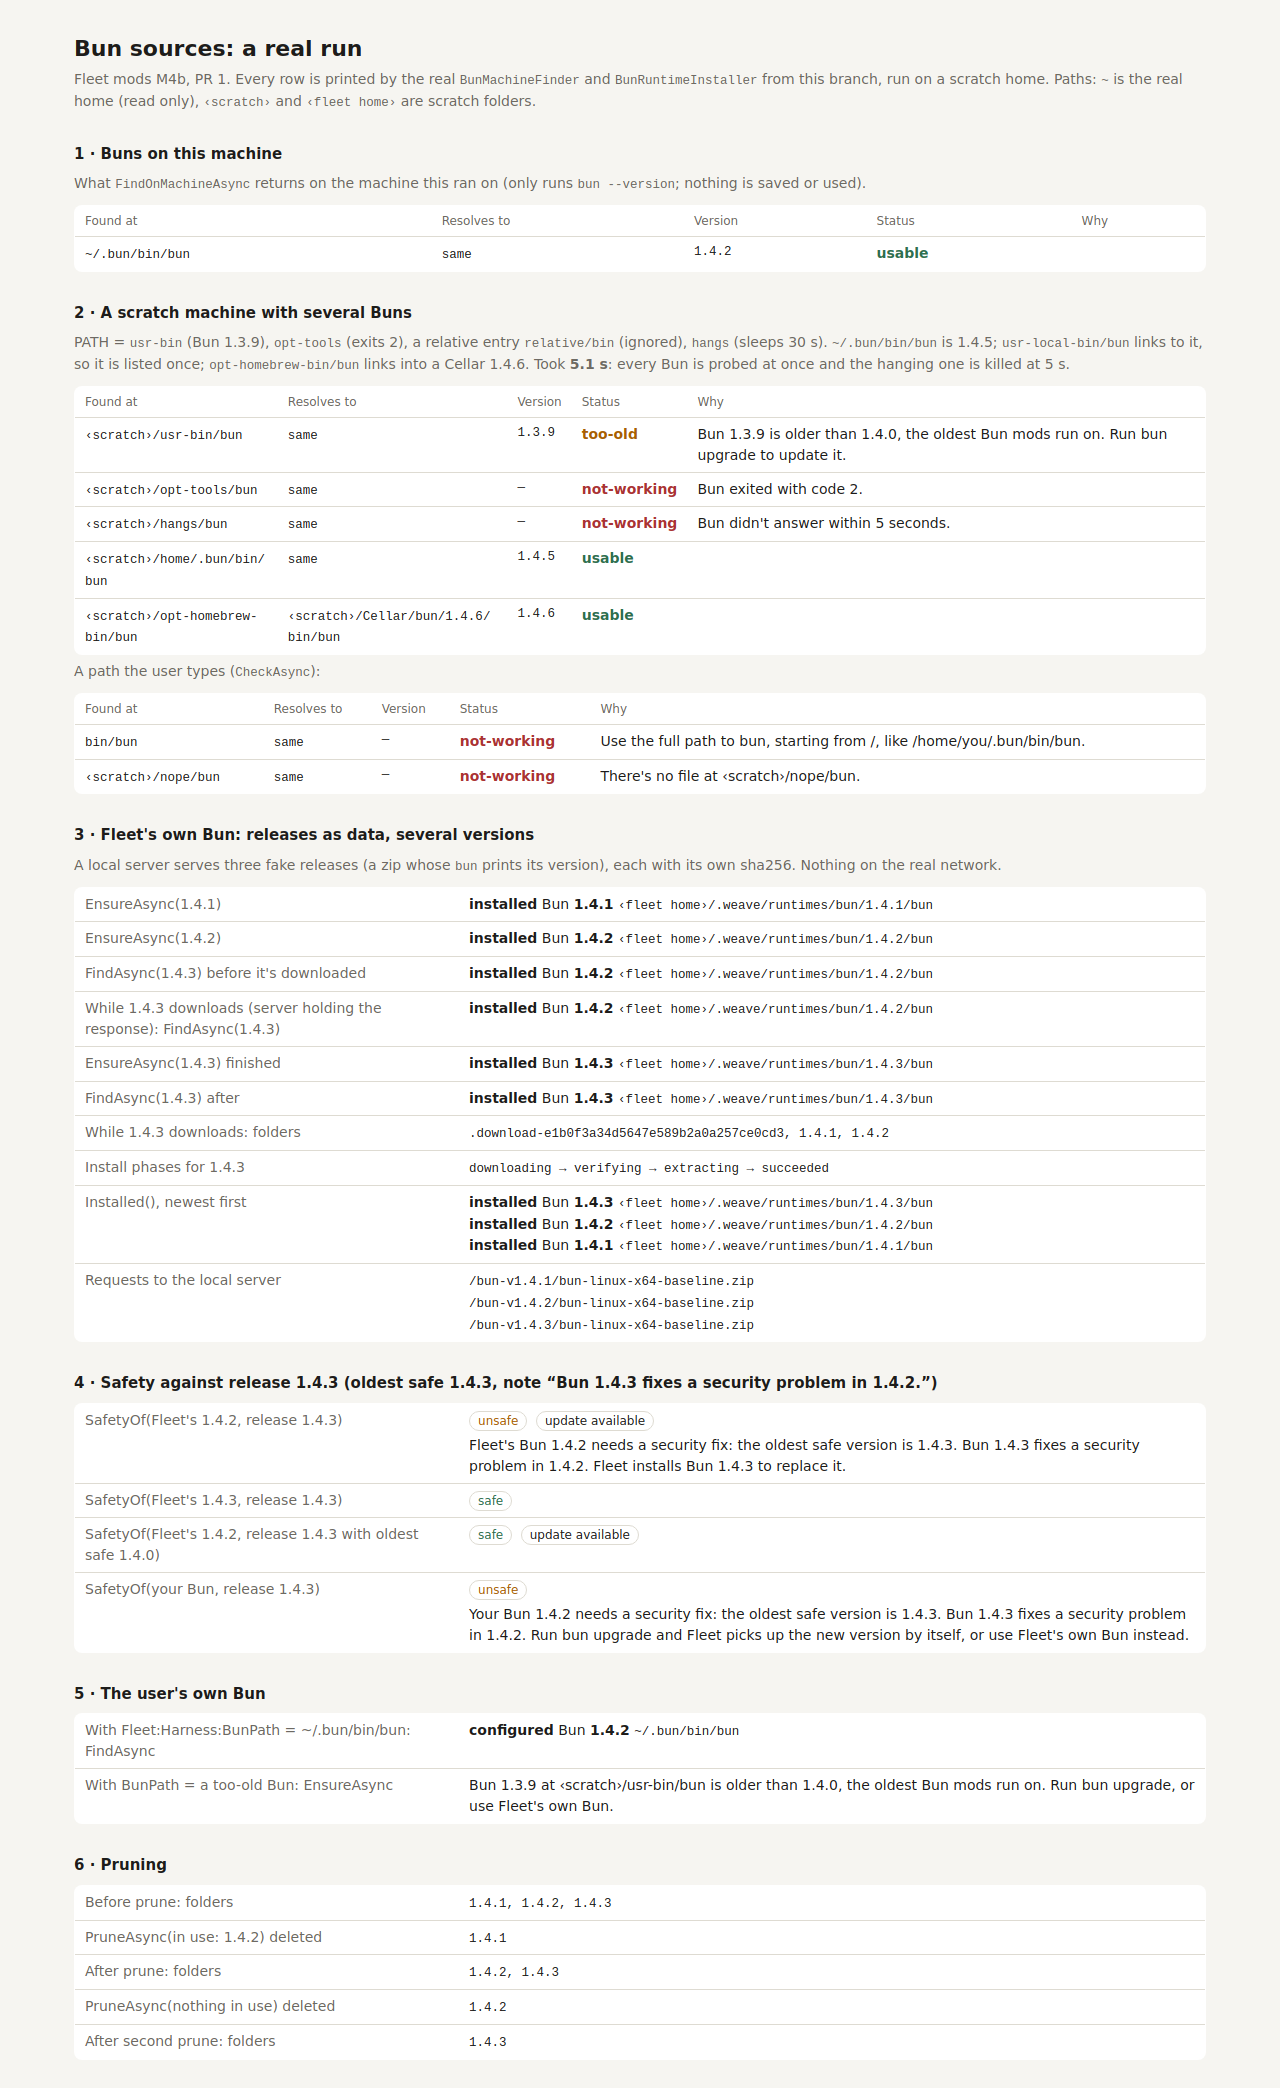
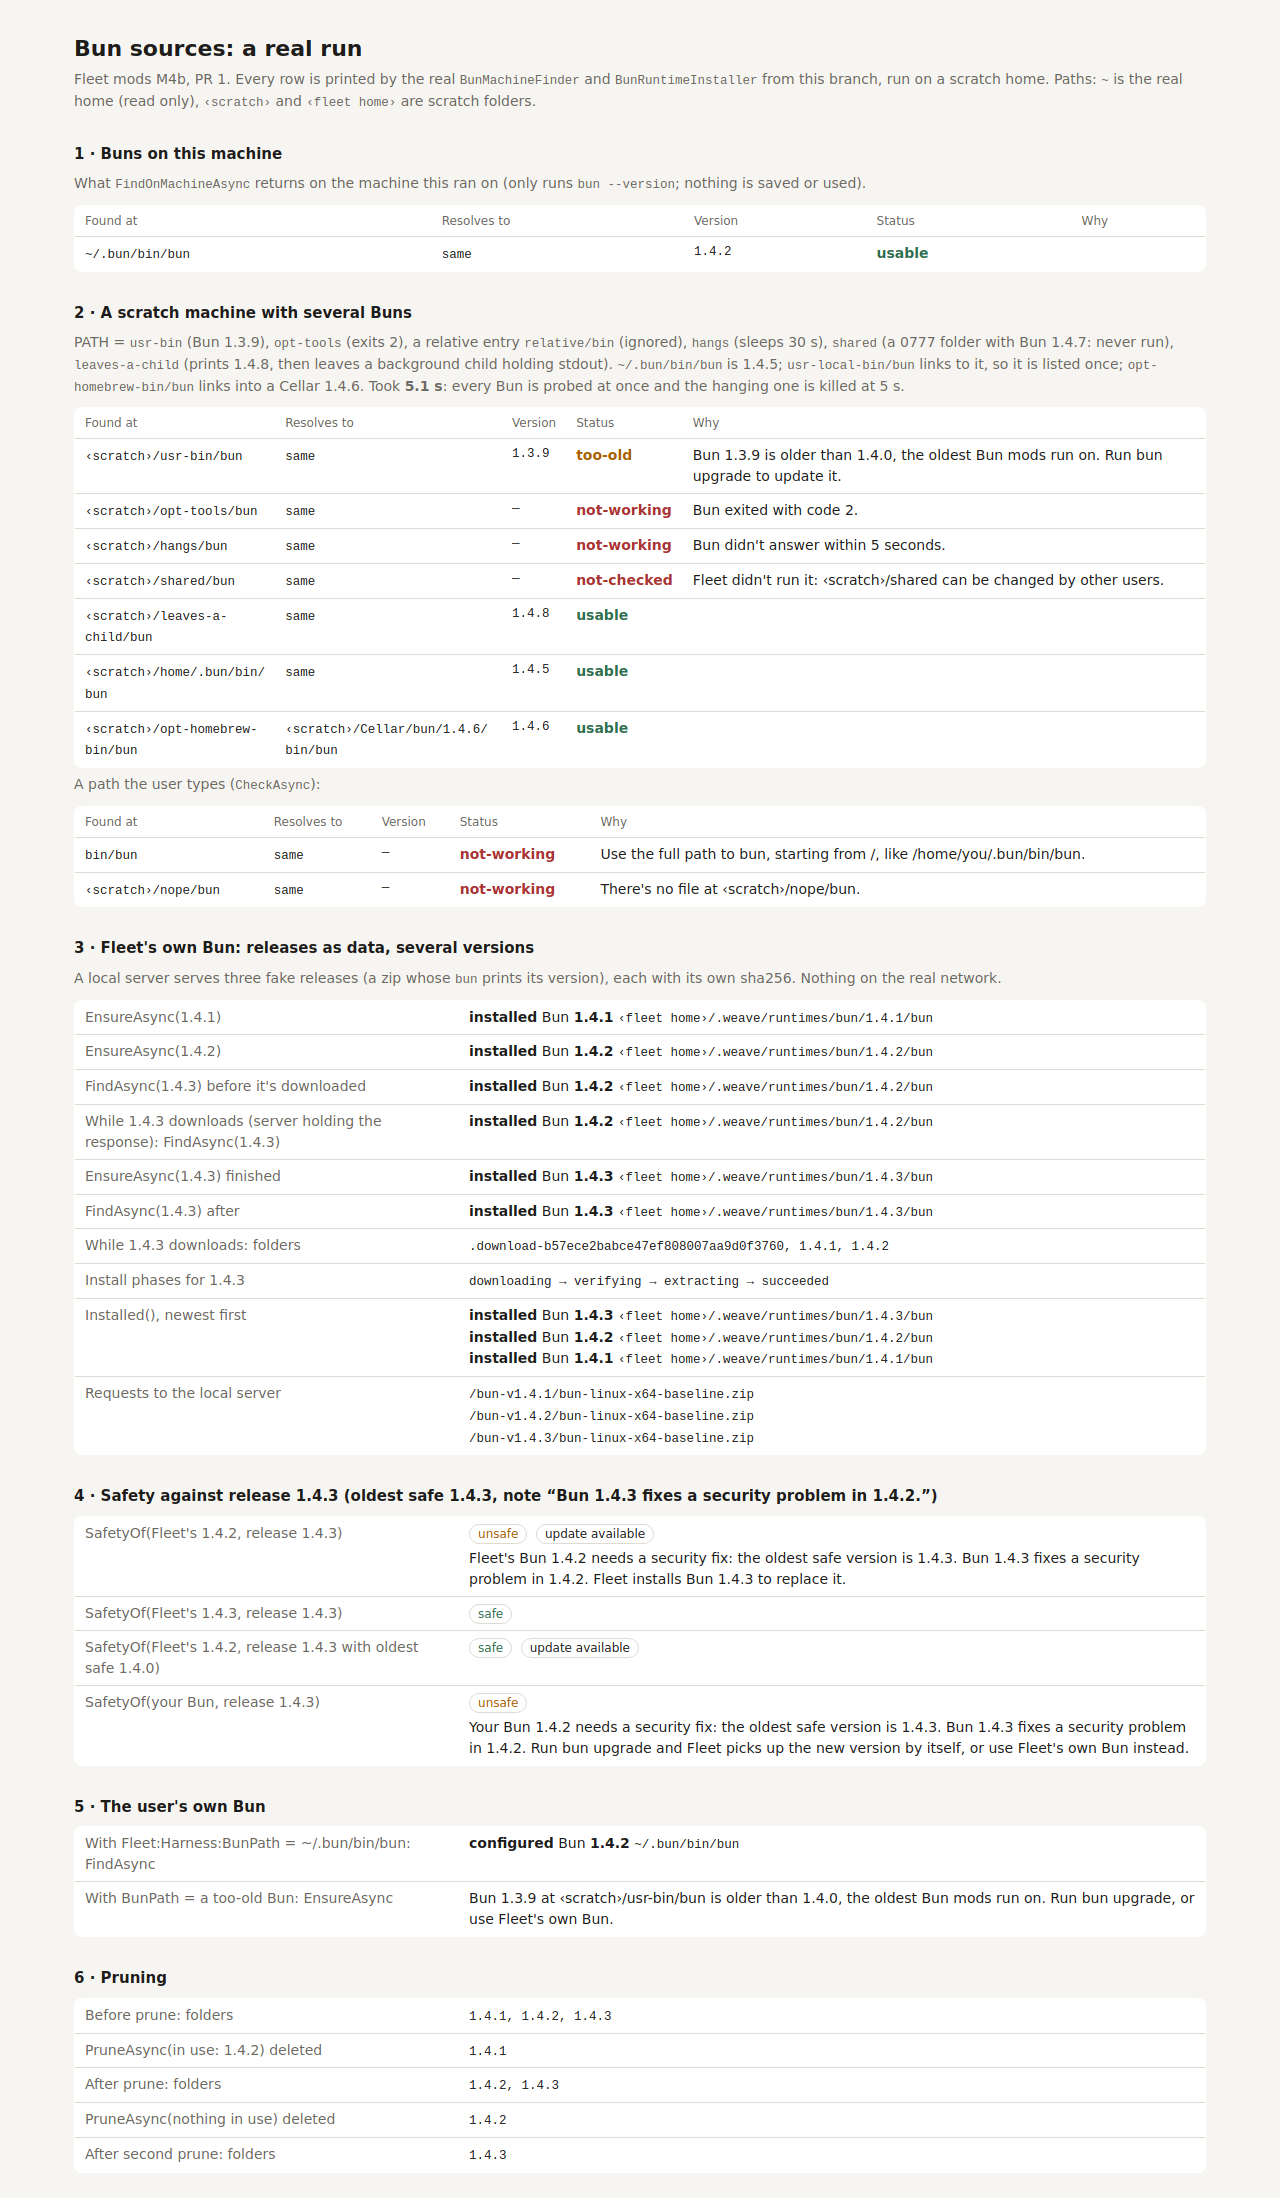
docs(mockups): evidence after review 1: a Bun others can change isn't run, a background child doesn't hide the version

diff --git a/mockups/mods-bun-sources/bun-sources-run.html b/mockups/mods-bun-sources/bun-sources-run.html
@@ -8,20 +8,22 @@ main{max-width:1180px;margin:0 auto;padding:32px 24px 48px}h1{font-size:22px;mar
 .sub{color:var(--mut);margin:0 0 10px}code,.num{font-family:ui-monospace,SFMono-Regular,Menlo,monospace;font-size:12.5px;overflow-wrap:anywhere}
 table{width:100%;border-collapse:collapse;background:var(--card);border:1px solid var(--line);border-radius:8px;overflow:hidden;margin-bottom:6px}
 th{text-align:left;font-size:12px;color:var(--mut);font-weight:500;padding:6px 10px}td{padding:6px 10px;border-top:1px solid var(--line);vertical-align:top}
-td.k{width:34%;color:var(--mut)}.st{font-weight:600;white-space:nowrap}tr.usable .st{color:var(--acc)}tr.too-old .st{color:var(--warn)}tr.not-working .st{color:var(--fail)}
+td.k{width:34%;color:var(--mut)}.st{font-weight:600;white-space:nowrap}tr.usable .st{color:var(--acc)}tr.too-old .st{color:var(--warn)}tr.not-working .st{color:var(--fail)}tr.not-checked .st{color:var(--fail)}
 .pill{display:inline-block;font-size:12px;border:1px solid var(--line);border-radius:999px;padding:0 8px;margin-right:4px}.pill.ok{color:var(--acc)}.pill.warn{color:var(--warn)}
 .msg{margin-top:4px}.mut{color:var(--mut)}
 </style><main><h1>Bun sources: a real run</h1>
 <p class=sub>Fleet mods M4b, PR 1. Every row is printed by the real <code>BunMachineFinder</code> and <code>BunRuntimeInstaller</code> from this branch, run on a scratch home. Paths: <code>~</code> is the real home (read only), <code>‹scratch›</code> and <code>‹fleet home›</code> are scratch folders.</p>
 <h2>1 · Buns on this machine</h2><p class=sub>What <code>FindOnMachineAsync</code> returns on the machine this ran on (only runs <code>bun --version</code>; nothing is saved or used).</p><table><tr><th>Found at</th><th>Resolves to</th><th>Version</th><th>Status</th><th>Why</th></tr>
 <tr class='usable'><td><code>~/.bun/bin/bun</code></td><td><code>same</code></td><td class=num>1.4.2</td><td class=st>usable</td><td></td></tr>
-</table><h2>2 · A scratch machine with several Buns</h2><p class=sub>PATH = <code>usr-bin</code> (Bun 1.3.9), <code>opt-tools</code> (exits 2), a relative entry <code>relative/bin</code> (ignored), <code>hangs</code> (sleeps 30 s). <code>~/.bun/bin/bun</code> is 1.4.5; <code>usr-local-bin/bun</code> links to it, so it is listed once; <code>opt-homebrew-bin/bun</code> links into a Cellar 1.4.6. Took <b>5.1 s</b>: every Bun is probed at once and the hanging one is killed at 5 s.</p><table><tr><th>Found at</th><th>Resolves to</th><th>Version</th><th>Status</th><th>Why</th></tr>
+</table><h2>2 · A scratch machine with several Buns</h2><p class=sub>PATH = <code>usr-bin</code> (Bun 1.3.9), <code>opt-tools</code> (exits 2), a relative entry <code>relative/bin</code> (ignored), <code>hangs</code> (sleeps 30 s), <code>shared</code> (a 0777 folder with Bun 1.4.7: never run), <code>leaves-a-child</code> (prints 1.4.8, then leaves a background child holding stdout). <code>~/.bun/bin/bun</code> is 1.4.5; <code>usr-local-bin/bun</code> links to it, so it is listed once; <code>opt-homebrew-bin/bun</code> links into a Cellar 1.4.6. Took <b>5.1 s</b>: every Bun is probed at once and the hanging one is killed at 5 s.</p><table><tr><th>Found at</th><th>Resolves to</th><th>Version</th><th>Status</th><th>Why</th></tr>
 <tr class='too-old'><td><code>‹scratch›/usr-bin/bun</code></td><td><code>same</code></td><td class=num>1.3.9</td><td class=st>too-old</td><td>Bun 1.3.9 is older than 1.4.0, the oldest Bun mods run on. Run bun upgrade to update it.</td></tr>
 <tr class='not-working'><td><code>‹scratch›/opt-tools/bun</code></td><td><code>same</code></td><td class=num>—</td><td class=st>not-working</td><td>Bun exited with code 2.</td></tr>
 <tr class='not-working'><td><code>‹scratch›/hangs/bun</code></td><td><code>same</code></td><td class=num>—</td><td class=st>not-working</td><td>Bun didn&#x27;t answer within 5 seconds.</td></tr>
+<tr class='not-checked'><td><code>‹scratch›/shared/bun</code></td><td><code>same</code></td><td class=num>—</td><td class=st>not-checked</td><td>Fleet didn&#x27;t run it: ‹scratch›/shared can be changed by other users.</td></tr>
+<tr class='usable'><td><code>‹scratch›/leaves-a-child/bun</code></td><td><code>same</code></td><td class=num>1.4.8</td><td class=st>usable</td><td></td></tr>
 <tr class='usable'><td><code>‹scratch›/home/.bun/bin/bun</code></td><td><code>same</code></td><td class=num>1.4.5</td><td class=st>usable</td><td></td></tr>
 <tr class='usable'><td><code>‹scratch›/opt-homebrew-bin/bun</code></td><td><code>‹scratch›/Cellar/bun/1.4.6/bin/bun</code></td><td class=num>1.4.6</td><td class=st>usable</td><td></td></tr>
 </table><p class=sub>A path the user types (<code>CheckAsync</code>):</p><table><tr><th>Found at</th><th>Resolves to</th><th>Version</th><th>Status</th><th>Why</th></tr>
 <tr class='not-working'><td><code>bin/bun</code></td><td><code>same</code></td><td class=num>—</td><td class=st>not-working</td><td>Use the full path to bun, starting from /, like /home/you/.bun/bin/bun.</td></tr>
 <tr class='not-working'><td><code>‹scratch›/nope/bun</code></td><td><code>same</code></td><td class=num>—</td><td class=st>not-working</td><td>There&#x27;s no file at ‹scratch›/nope/bun.</td></tr>
-</table><h2>3 · Fleet's own Bun: releases as data, several versions</h2><p class=sub>A local server serves three fake releases (a zip whose <code>bun</code> prints its version), each with its own sha256. Nothing on the real network.</p><table><tr><td class=k>EnsureAsync(1.4.1)</td><td><b>installed</b> Bun <b>1.4.1</b> <code>‹fleet home›/.weave/runtimes/bun/1.4.1/bun</code></td></tr><tr><td class=k>EnsureAsync(1.4.2)</td><td><b>installed</b> Bun <b>1.4.2</b> <code>‹fleet home›/.weave/runtimes/bun/1.4.2/bun</code></td></tr><tr><td class=k>FindAsync(1.4.3) before it&#x27;s downloaded</td><td><b>installed</b> Bun <b>1.4.2</b> <code>‹fleet home›/.weave/runtimes/bun/1.4.2/bun</code></td></tr><tr><td class=k>While 1.4.3 downloads (server holding the response): FindAsync(1.4.3)</td><td><b>installed</b> Bun <b>1.4.2</b> <code>‹fleet home›/.weave/runtimes/bun/1.4.2/bun</code></td></tr><tr><td class=k>EnsureAsync(1.4.3) finished</td><td><b>installed</b> Bun <b>1.4.3</b> <code>‹fleet home›/.weave/runtimes/bun/1.4.3/bun</code></td></tr><tr><td class=k>FindAsync(1.4.3) after</td><td><b>installed</b> Bun <b>1.4.3</b> <code>‹fleet home›/.weave/runtimes/bun/1.4.3/bun</code></td></tr><tr><td class=k>While 1.4.3 downloads: folders</td><td><code>.download-e1b0f3a34d5647e589b2a0a257ce0cd3, 1.4.1, 1.4.2</code></td></tr><tr><td class=k>Install phases for 1.4.3</td><td><code>downloading → verifying → extracting → succeeded</code></td></tr><tr><td class=k>Installed(), newest first</td><td><b>installed</b> Bun <b>1.4.3</b> <code>‹fleet home›/.weave/runtimes/bun/1.4.3/bun</code><br><b>installed</b> Bun <b>1.4.2</b> <code>‹fleet home›/.weave/runtimes/bun/1.4.2/bun</code><br><b>installed</b> Bun <b>1.4.1</b> <code>‹fleet home›/.weave/runtimes/bun/1.4.1/bun</code></td></tr><tr><td class=k>Requests to the local server</td><td><code>/bun-v1.4.1/bun-linux-x64-baseline.zip<br>/bun-v1.4.2/bun-linux-x64-baseline.zip<br>/bun-v1.4.3/bun-linux-x64-baseline.zip</code></td></tr></table><h2>4 · Safety against release 1.4.3 (oldest safe 1.4.3, note “Bun 1.4.3 fixes a security problem in 1.4.2.”)</h2><table><tr><td class=k>SafetyOf(Fleet&#x27;s 1.4.2, release 1.4.3)</td><td><span class='pill warn'>unsafe</span> <span class=pill>update available</span><div class=msg>Fleet&#x27;s Bun 1.4.2 needs a security fix: the oldest safe version is 1.4.3. Bun 1.4.3 fixes a security problem in 1.4.2. Fleet installs Bun 1.4.3 to replace it.</div></td></tr><tr><td class=k>SafetyOf(Fleet&#x27;s 1.4.3, release 1.4.3)</td><td><span class='pill ok'>safe</span></td></tr><tr><td class=k>SafetyOf(Fleet&#x27;s 1.4.2, release 1.4.3 with oldest safe 1.4.0)</td><td><span class='pill ok'>safe</span> <span class=pill>update available</span></td></tr><tr><td class=k>SafetyOf(your Bun, release 1.4.3)</td><td><span class='pill warn'>unsafe</span><div class=msg>Your Bun 1.4.2 needs a security fix: the oldest safe version is 1.4.3. Bun 1.4.3 fixes a security problem in 1.4.2. Run bun upgrade and Fleet picks up the new version by itself, or use Fleet&#x27;s own Bun instead.</div></td></tr></table><h2>5 · The user's own Bun</h2><table><tr><td class=k>With Fleet:Harness:BunPath = ~/.bun/bin/bun: FindAsync</td><td><b>configured</b> Bun <b>1.4.2</b> <code>~/.bun/bin/bun</code></td></tr><tr><td class=k>With BunPath = a too-old Bun: EnsureAsync</td><td class=msg>Bun 1.3.9 at ‹scratch›/usr-bin/bun is older than 1.4.0, the oldest Bun mods run on. Run bun upgrade, or use Fleet&#x27;s own Bun.</td></tr></table><h2>6 · Pruning</h2><table><tr><td class=k>Before prune: folders</td><td><code>1.4.1, 1.4.2, 1.4.3</code></td></tr><tr><td class=k>PruneAsync(in use: 1.4.2) deleted</td><td><code>1.4.1</code></td></tr><tr><td class=k>After prune: folders</td><td><code>1.4.2, 1.4.3</code></td></tr><tr><td class=k>PruneAsync(nothing in use) deleted</td><td><code>1.4.2</code></td></tr><tr><td class=k>After second prune: folders</td><td><code>1.4.3</code></td></tr></table></main></html>
+</table><h2>3 · Fleet's own Bun: releases as data, several versions</h2><p class=sub>A local server serves three fake releases (a zip whose <code>bun</code> prints its version), each with its own sha256. Nothing on the real network.</p><table><tr><td class=k>EnsureAsync(1.4.1)</td><td><b>installed</b> Bun <b>1.4.1</b> <code>‹fleet home›/.weave/runtimes/bun/1.4.1/bun</code></td></tr><tr><td class=k>EnsureAsync(1.4.2)</td><td><b>installed</b> Bun <b>1.4.2</b> <code>‹fleet home›/.weave/runtimes/bun/1.4.2/bun</code></td></tr><tr><td class=k>FindAsync(1.4.3) before it&#x27;s downloaded</td><td><b>installed</b> Bun <b>1.4.2</b> <code>‹fleet home›/.weave/runtimes/bun/1.4.2/bun</code></td></tr><tr><td class=k>While 1.4.3 downloads (server holding the response): FindAsync(1.4.3)</td><td><b>installed</b> Bun <b>1.4.2</b> <code>‹fleet home›/.weave/runtimes/bun/1.4.2/bun</code></td></tr><tr><td class=k>EnsureAsync(1.4.3) finished</td><td><b>installed</b> Bun <b>1.4.3</b> <code>‹fleet home›/.weave/runtimes/bun/1.4.3/bun</code></td></tr><tr><td class=k>FindAsync(1.4.3) after</td><td><b>installed</b> Bun <b>1.4.3</b> <code>‹fleet home›/.weave/runtimes/bun/1.4.3/bun</code></td></tr><tr><td class=k>While 1.4.3 downloads: folders</td><td><code>.download-b57ece2babce47ef808007aa9d0f3760, 1.4.1, 1.4.2</code></td></tr><tr><td class=k>Install phases for 1.4.3</td><td><code>downloading → verifying → extracting → succeeded</code></td></tr><tr><td class=k>Installed(), newest first</td><td><b>installed</b> Bun <b>1.4.3</b> <code>‹fleet home›/.weave/runtimes/bun/1.4.3/bun</code><br><b>installed</b> Bun <b>1.4.2</b> <code>‹fleet home›/.weave/runtimes/bun/1.4.2/bun</code><br><b>installed</b> Bun <b>1.4.1</b> <code>‹fleet home›/.weave/runtimes/bun/1.4.1/bun</code></td></tr><tr><td class=k>Requests to the local server</td><td><code>/bun-v1.4.1/bun-linux-x64-baseline.zip<br>/bun-v1.4.2/bun-linux-x64-baseline.zip<br>/bun-v1.4.3/bun-linux-x64-baseline.zip</code></td></tr></table><h2>4 · Safety against release 1.4.3 (oldest safe 1.4.3, note “Bun 1.4.3 fixes a security problem in 1.4.2.”)</h2><table><tr><td class=k>SafetyOf(Fleet&#x27;s 1.4.2, release 1.4.3)</td><td><span class='pill warn'>unsafe</span> <span class=pill>update available</span><div class=msg>Fleet&#x27;s Bun 1.4.2 needs a security fix: the oldest safe version is 1.4.3. Bun 1.4.3 fixes a security problem in 1.4.2. Fleet installs Bun 1.4.3 to replace it.</div></td></tr><tr><td class=k>SafetyOf(Fleet&#x27;s 1.4.3, release 1.4.3)</td><td><span class='pill ok'>safe</span></td></tr><tr><td class=k>SafetyOf(Fleet&#x27;s 1.4.2, release 1.4.3 with oldest safe 1.4.0)</td><td><span class='pill ok'>safe</span> <span class=pill>update available</span></td></tr><tr><td class=k>SafetyOf(your Bun, release 1.4.3)</td><td><span class='pill warn'>unsafe</span><div class=msg>Your Bun 1.4.2 needs a security fix: the oldest safe version is 1.4.3. Bun 1.4.3 fixes a security problem in 1.4.2. Run bun upgrade and Fleet picks up the new version by itself, or use Fleet&#x27;s own Bun instead.</div></td></tr></table><h2>5 · The user's own Bun</h2><table><tr><td class=k>With Fleet:Harness:BunPath = ~/.bun/bin/bun: FindAsync</td><td><b>configured</b> Bun <b>1.4.2</b> <code>~/.bun/bin/bun</code></td></tr><tr><td class=k>With BunPath = a too-old Bun: EnsureAsync</td><td class=msg>Bun 1.3.9 at ‹scratch›/usr-bin/bun is older than 1.4.0, the oldest Bun mods run on. Run bun upgrade, or use Fleet&#x27;s own Bun.</td></tr></table><h2>6 · Pruning</h2><table><tr><td class=k>Before prune: folders</td><td><code>1.4.1, 1.4.2, 1.4.3</code></td></tr><tr><td class=k>PruneAsync(in use: 1.4.2) deleted</td><td><code>1.4.1</code></td></tr><tr><td class=k>After prune: folders</td><td><code>1.4.2, 1.4.3</code></td></tr><tr><td class=k>PruneAsync(nothing in use) deleted</td><td><code>1.4.2</code></td></tr><tr><td class=k>After second prune: folders</td><td><code>1.4.3</code></td></tr></table></main></html>
